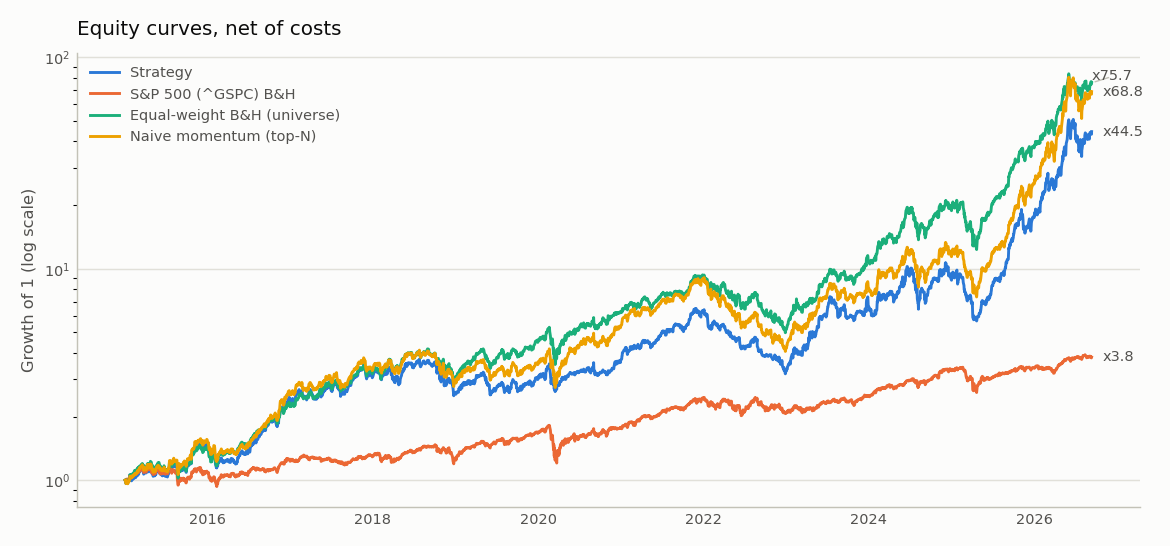
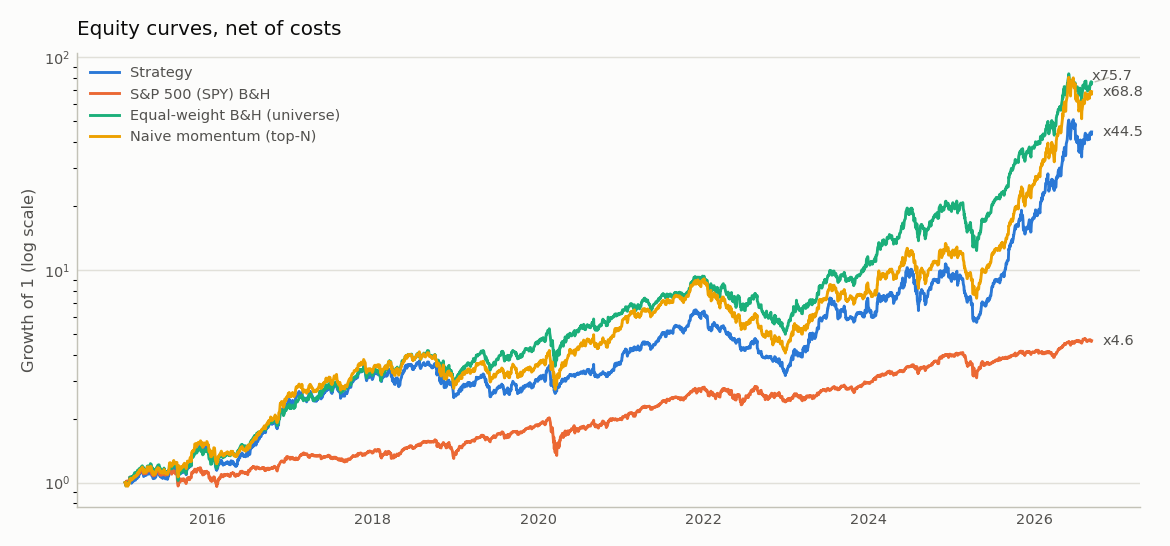
Benchmark: SPY (dividend-adjusted) replaces ^GSPC as the market reference
universe.benchmarks[0] is passed through to the feature builder instead of the hard-coded
^GSPC; the S&P column is relabelled. Control strategy numbers are unchanged (37.1% CAGR,
Sharpe 1.07, -50.8% max DD); only the S&P column (11.8% -> 13.6% CAGR, price-return index vs
total-return ETF), alpha (23.4% -> 21.7%) and beta (1.05 -> 1.06) move.

diff --git a/src/thematic_alpha/backtest/benchmarks.py b/src/thematic_alpha/backtest/benchmarks.py
@@ -1,6 +1,7 @@
 """Benchmarks (SPEC §1D), all run through the same engine with identical cost treatment:
 
-1. ``sp500``           — ^GSPC buy-and-hold (one purchase, then untouched).
+1. ``sp500``           — ``benchmarks[0]`` buy-and-hold (SPY, dividend-adjusted; one purchase,
+                         then untouched). Layer 1 used ^GSPC, a price-return index.
 2. ``equal_weight_bh`` — equal-weight buy-and-hold of the universe. The critical benchmark.
                          Re-equalized only on signal dates where the eligible set changes
                          (a new listing crossing ``min_history_days``); otherwise untouched.

diff --git a/src/thematic_alpha/features/build.py b/src/thematic_alpha/features/build.py
@@ -71,8 +71,9 @@ def build_feature_panel(
     master: pd.DatetimeIndex,
     tickers: list[str],
     config: Config,
-    market_ticker: str = "^GSPC",
+    market_ticker: str,
 ) -> FeaturePanel:
+    """``market_ticker`` is the beta reference: ``universe.benchmarks[0]`` in the pipeline."""
     if market_ticker not in prices.adj_close.columns:
         raise ValueError(f"market ticker {market_ticker!r} is not in the price panel")
     spec = PriceFeatureSpec(

diff --git a/src/thematic_alpha/pipeline.py b/src/thematic_alpha/pipeline.py
@@ -174,6 +174,7 @@ def build_features(bundle: DataBundle, config: Config) -> FeaturePanel:
         master=bundle.master,
         tickers=[t for t in bundle.universe.tickers if t in bundle.panel.tickers],
         config=config,
+        market_ticker=config.universe.benchmarks[0],
     )
     last = fp.eligible.index[-1]
     logger.info(

diff --git a/src/thematic_alpha/reporting/report.py b/src/thematic_alpha/reporting/report.py
@@ -22,7 +22,7 @@ from thematic_alpha.reporting.tables import (
 
 LABELS = {
     "strategy": "Strategy",
-    "sp500": "S&P 500 (^GSPC) B&H",
+    "sp500": "S&P 500 (SPY) B&H",
     "equal_weight_bh": "Equal-weight B&H (universe)",
     "naive_momentum": "Naive momentum (top-N)",
 }

diff --git a/outputs/report.md b/outputs/report.md
@@ -32,28 +32,28 @@
 
 ![equity curves](figures/equity_curves.png)
 
-| Metric | Strategy | S&P 500 (^GSPC) B&H | Equal-weight B&H (universe) | Naive momentum (top-N) |
+| Metric | Strategy | S&P 500 (SPY) B&H | Equal-weight B&H (universe) | Naive momentum (top-N) |
 |---|---:|---:|---:|---:|
-| Total return | 4353.6% | 282.0% | 7474.4% | 6780.2% |
-| CAGR | 37.1% | 11.8% | 43.3% | 42.2% |
-| Annualized volatility | 32.6% | 18.5% | 31.2% | 34.0% |
-| Sharpe (excess over DTB3) | 1.07 | 0.58 | 1.24 | 1.14 |
-| Sortino (MAR 0) | 1.56 | 0.82 | 1.82 | 1.67 |
-| Max drawdown | -50.8% | -33.7% | -46.7% | -55.2% |
+| Total return | 4353.6% | 364.5% | 7474.4% | 6780.2% |
+| CAGR | 37.1% | 13.6% | 43.3% | 42.2% |
+| Annualized volatility | 32.6% | 18.4% | 31.2% | 34.0% |
+| Sharpe (excess over DTB3) | 1.07 | 0.67 | 1.24 | 1.14 |
+| Sortino (MAR 0) | 1.56 | 0.95 | 1.82 | 1.67 |
+| Max drawdown | -50.8% | -33.5% | -46.7% | -55.2% |
 | Max DD peak | 2021-11-25 | 2020-02-19 | 2021-12-27 | 2022-01-03 |
 | Max DD trough | 2022-12-28 | 2020-03-23 | 2022-12-28 | 2022-12-28 |
-| Max DD recovery | 2023-07-03 | 2021-01-20 | 2023-07-05 | 2024-02-09 |
-| Max DD duration (days) | 585 | 336 | 555 | 767 |
-| Calmar | 0.73 | 0.35 | 0.93 | 0.76 |
-| Alpha vs S&P 500 (ann.) | 23.4% | -0.1% | 24.7% | 25.0% |
-| Beta vs S&P 500 | 1.05 | 1.00 | 1.29 | 1.27 |
+| Max DD recovery | 2023-07-03 | 2021-01-07 | 2023-07-05 | 2024-02-09 |
+| Max DD duration (days) | 585 | 323 | 555 | 767 |
+| Calmar | 0.73 | 0.41 | 0.93 | 0.76 |
+| Alpha vs S&P 500 (ann.) | 21.7% | -0.1% | 22.6% | 23.0% |
+| Beta vs S&P 500 | 1.06 | 1.00 | 1.30 | 1.28 |
 | Historical VaR 95% (daily) | 3.1% | 1.7% | 3.2% | 3.3% |
-| Historical VaR 99% (daily) | 5.8% | 3.4% | 5.3% | 5.8% |
-| Parametric VaR 95% (daily) | 3.2% | 1.9% | 3.1% | 3.4% |
-| Parametric VaR 99% (daily) | 4.6% | 2.7% | 4.4% | 4.8% |
+| Historical VaR 99% (daily) | 5.8% | 3.3% | 5.3% | 5.8% |
+| Parametric VaR 95% (daily) | 3.2% | 1.8% | 3.1% | 3.4% |
+| Parametric VaR 99% (daily) | 4.6% | 2.6% | 4.4% | 4.8% |
 | CVaR / ES 95% (daily) | 4.8% | 2.8% | 4.6% | 5.0% |
-| Excess kurtosis (daily) | 3.72 | 12.39 | 3.70 | 3.42 |
-| Hit rate (weekly periods) | 59.9% | 59.8% | 61.7% | 60.4% |
+| Excess kurtosis (daily) | 3.72 | 11.29 | 3.70 | 3.42 |
+| Hit rate (weekly periods) | 59.9% | 60.3% | 61.7% | 60.4% |
 | Average win (weekly period) | 3.6% | 1.7% | 3.5% | 3.8% |
 | Average loss (weekly period) | -3.6% | -1.8% | -3.5% | -3.7% |
 | Annualized turnover | 18.32 | 0.08 | 0.62 | 15.39 |

diff --git a/outputs/data_quality.md b/outputs/data_quality.md
@@ -18,7 +18,7 @@ Coverage is measured against each ticker's **own** exchange calendar (`exchange_
 | NBIS | NASDAQ | 2024-10-21 | 2026-09-11 | 474 | 474 | 100.0% | 0 | 0 | 4 | 0 |
 | IREN | NASDAQ | 2021-11-17 | 2026-09-11 | 1208 | 1208 | 100.0% | 0 | 0 | 7 | 0 |
 | DELL | NYSE | 2016-08-17 | 2026-09-11 | 2531 | 2531 | 100.0% | 0 | 0 | 2 | 0 |
-| ^GSPC | NYSE | 1998-01-02 | 2026-09-11 | 7217 | 7217 | 100.0% | 0 | 0 | 0 | 0 |
+| SPY | NYSE | 1998-01-02 | 2026-09-11 | 7217 | 7217 | 100.0% | 0 | 0 | 0 | 0 |
 | QQQ | NYSE | 1999-03-10 | 2026-09-11 | 6920 | 6920 | 100.0% | 0 | 0 | 0 | 0 |
 | SOXX | NYSE | 2001-07-13 | 2026-09-11 | 6328 | 6328 | 100.0% | 0 | 0 | 0 | 0 |
 
